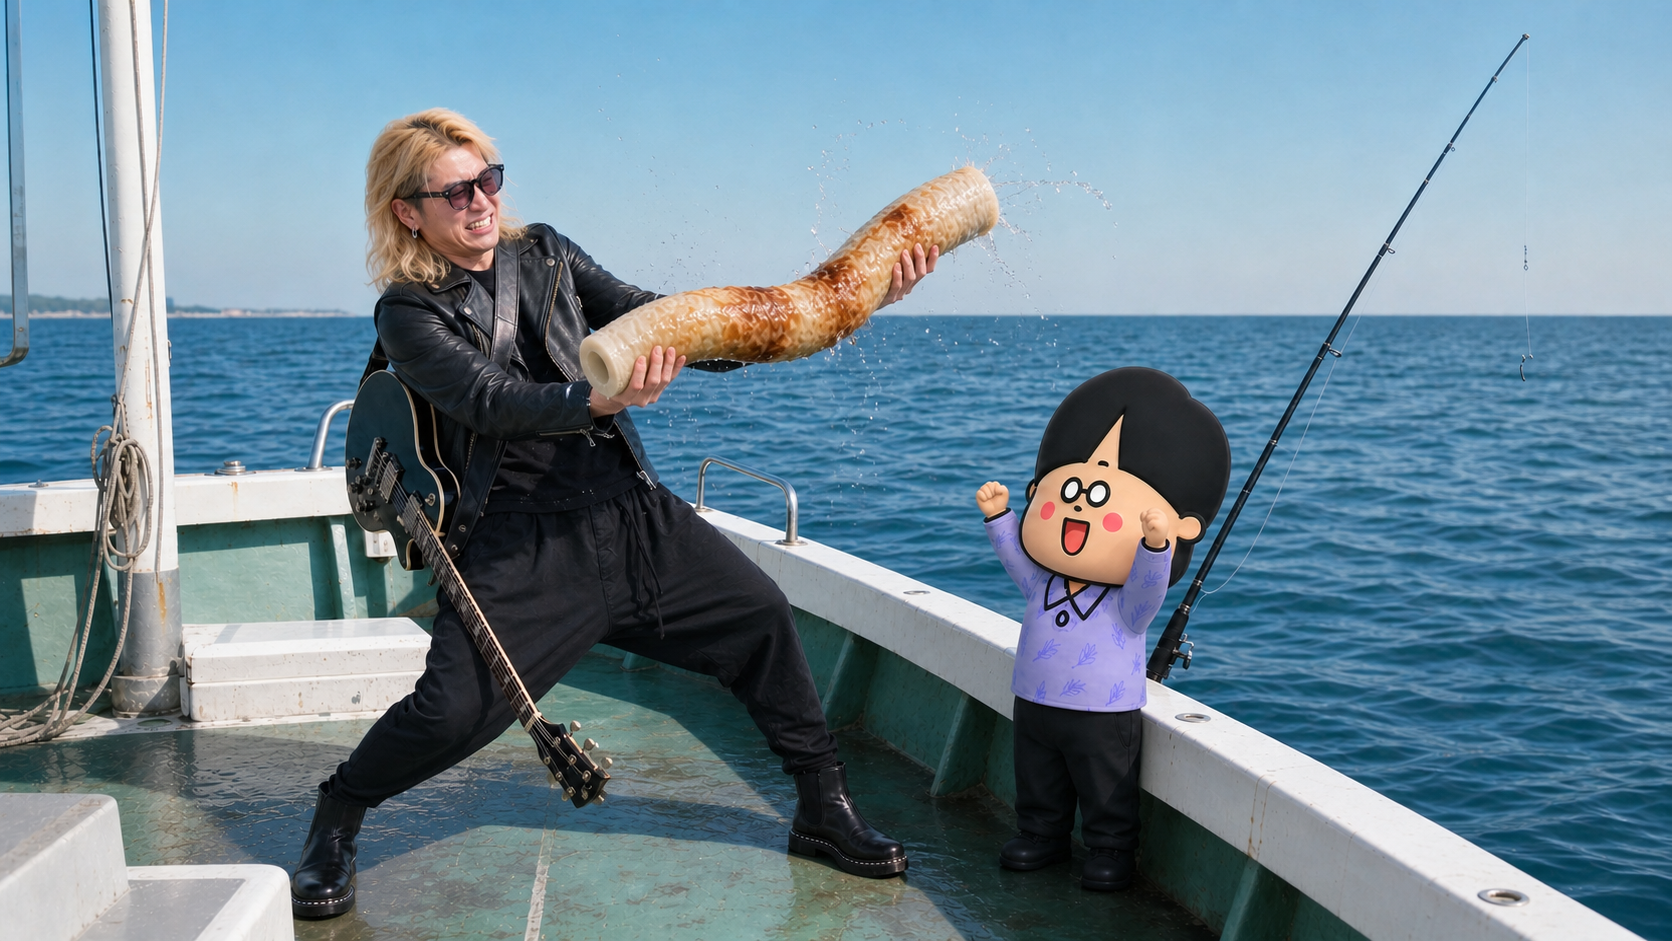
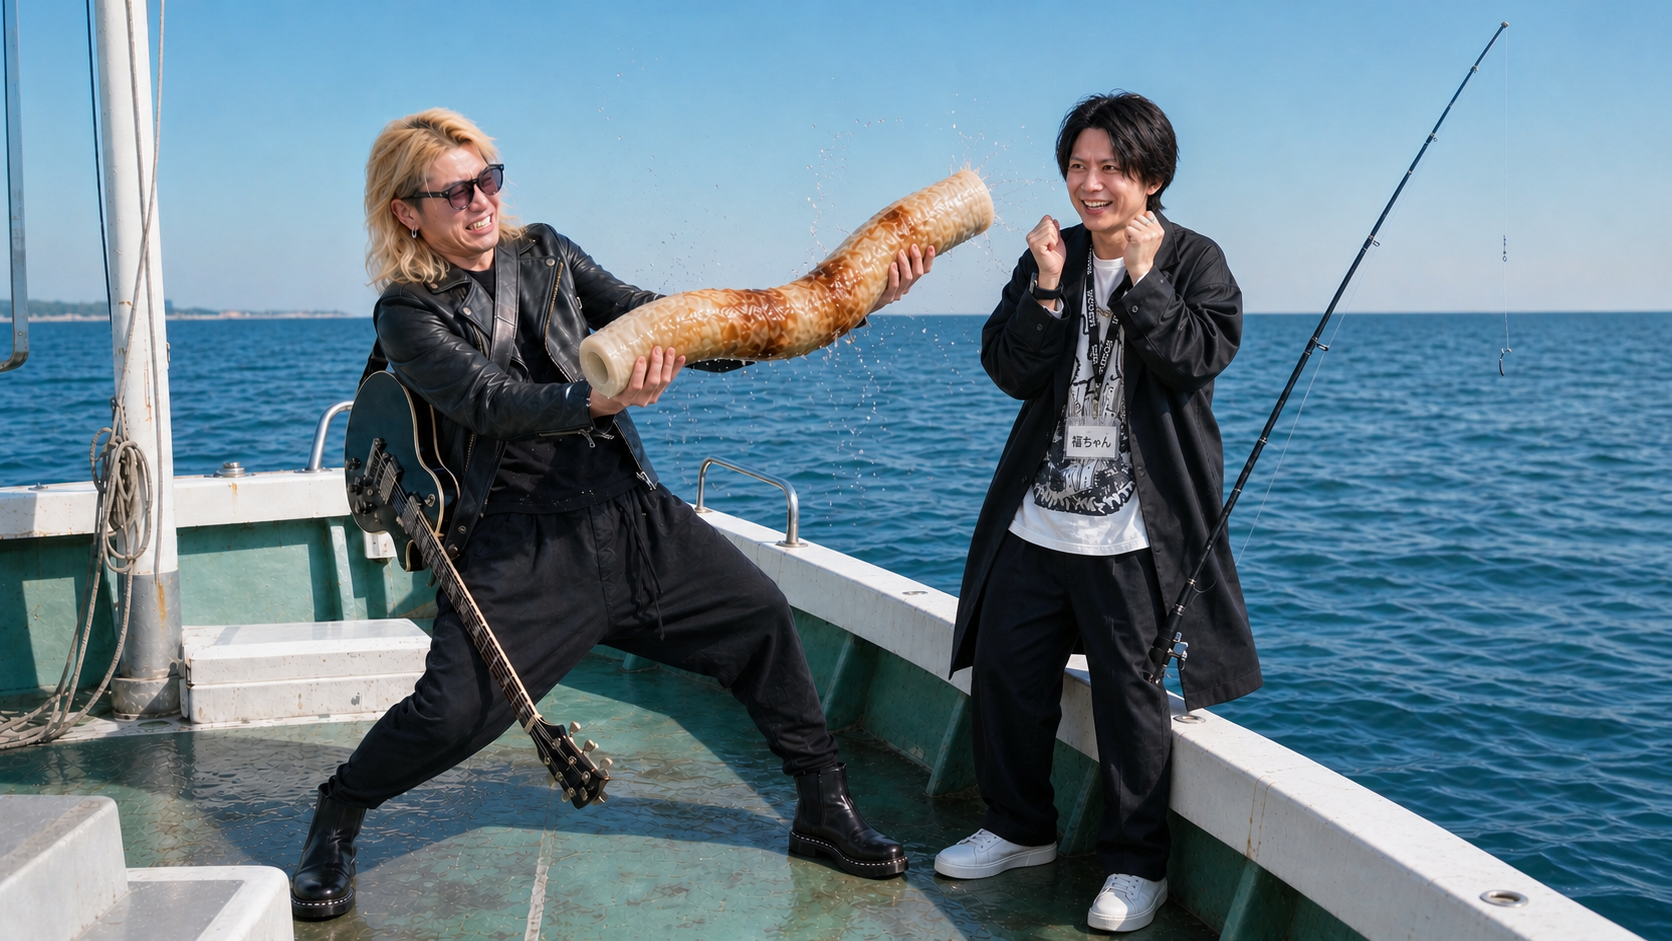
feat: replace Yametaro with live-action Fukuchan assets

diff --git a/03_SCRIPTS/42_chikuwa_line_fishing_soba_shark/asset_generation_prompts.md b/03_SCRIPTS/42_chikuwa_line_fishing_soba_shark/asset_generation_prompts.md
@@ -1,65 +1,69 @@
 # 本番参照画像・確認画像の生成記録
 
-新規画像はbuilt-in `image_gen`で生成し、採用画像だけをこのランへ保存した。そばシャークは過去の正本素材を変更せず、通常の人間サイズのまま複製した。
+新規・差し替え画像はbuilt-in `image_gen`で生成し、採用画像をこのランへ保存した。実写のよーたんと福ちゃんを含む3枚は、`02_CHARACTERS/Yotan.jpg`と`02_CHARACTERS/Fukuchan.jpg`をそれぞれの顔の唯一のidentity sourceとして使用した。
 
 ## 本番入力画像
 
 ### `scene_01_fishing_boat_start_production.png`
 
 ```text
-Use case: identity-preserve
-Asset type: final 16:9 Seedance production start frame for a live-action Japanese short comedy, exact frame zero.
-Input images: YOTAN face reference is the sole and absolute face identity source; YOTAN character sheet fixes his slim build, black leather rock outfit, sunglasses, boots, blond hair, and exactly one black electric guitar; YAMETARO references fix his canonical deformed 3D identity, huge rounded-square head, black side-parted hair, round glasses, pink cheeks, purple patterned shirt, black pants, tiny body and proportions.
-Primary request: On a small realistic Japanese coastal fishing boat at open sea in clear morning light, show exactly two Madogiwa members. YOTAN stands at the starboard rail in the left-center foreground, bracing both boots wide on the wet deck and straining backward while gripping one deeply bent fishing rod with both hands. The taut line exits frame into the sea at lower right. His black electric guitar is exactly one, secured diagonally on his back. YAMETARO stands one step behind and screen-right, leaning toward the rod with surprised anticipation, hands raised but not touching it. Both look toward the taut line and sea.
-Composition: cinematic photoreal 16:9 wide-medium shot from slightly above deck height, 35mm lens, camera on port side, readable faces and upper bodies, boat bow and starboard rail visible, horizon level in the upper third. Exact opening state, ready for motion after 0.2 seconds.
-Style: high-end practical live-action Japanese creature comedy, realistic boat, sea spray, wet fiberglass deck, natural skin and cloth, restrained color grade.
-Constraints: strict character identity; no beautification or realistic-human conversion of YAMETARO; no fish, chikuwa, dorsal fin, shark, Soba Shark, beer, other people, extra rods, extra guitars, text, logo, watermark, split panels or character-sheet layout.
+Use case: identity-preserve and precise-object-edit.
+Asset type: final 16:9 Seedance production start frame, exact frame zero, for a photoreal Japanese creature-comedy short.
+Input roles: the previous start frame fixes the exact small fishing boat, port-side camera, open sea, clear morning, YOTAN position, deeply bent rod and framing. Yotan.jpg is YOTAN's sole absolute face-identity source; his basic sheet fixes his slim body, blond hair, sunglasses, black leather rock outfit, boots and exactly one black electric guitar. Fukuchan.jpg is FUKUCHAN's sole absolute face-identity source; his basic sheet fixes his slim body, center-parted black hair, oversized black jacket, white graphic T-shirt, black wide trousers, white sneakers, SPONSOR lanyard and Fukuchan name badge.
+Primary edit: replace the stylized YAMETARO at screen-right with the real live-action FUKUCHAN. FUKUCHAN stands one step behind and screen-right of YOTAN, leaning toward the bent rod with natural surprised anticipation, one hand slightly raised, not touching YOTAN or the rod. Keep exactly two real Japanese men aboard.
+Identity: both faces strictly match their sole canonical photos in age, bone structure, eyes, brows, nose, mouth, skin and hair. No face mixing, beautification, rejuvenation or generic substitution.
+Photorealism: candid observational footage from a small crew aboard a working coastal boat. Preserve pores, faint wrinkles, natural skin variation, individual wind-blown hair, cloth weave and seams, gravity and wind in clothing, salt marks, scratches, chipped paint, wet scuffed FRP, grounded contact shadows and restrained cool morning sunlight. No plastic skin, wax faces, excessive HDR, oversharpening, airbrushing, studio glamour or theatrical posing.
+Invariants: preserve composition, lens, horizon, geography, YOTAN stance, rod geometry and taut line. Exactly one guitar on YOTAN. No catch visible yet.
+Avoid: YAMETARO, cartoon people, third person, fish, chikuwa, dorsal fin, shark, Soba Shark, beer, extra rods, extra guitars, text overlay, subtitles, logo, watermark or reference-sheet layout.
 ```
+
+採用結果：よーたんが画面左で曲がった竿を両手保持し、福ちゃんが一歩後ろで身を乗り出す実写二人画。福ちゃんのストラップと名札、船の擦れ・濡れ、自然な朝光を維持。
 
 ### `prop_large_living_chikuwa_production.png`
 
 ```text
-Use case: product-mockup
-Asset type: Seedance production master image for exactly one living ocean chikuwa used as the catch in a live-action Japanese creature comedy.
-Primary request: Create one natural chikuwa marine organism approximately 60 centimeters long and 12 centimeters in diameter. Preserve the familiar food form: one flexible hollow cylindrical tube, pale beige fish-paste body, irregular caramel-brown grilled bands and patches, and one clean continuous central hole visible through both ends. Its taut living tissue is coated in seawater with droplets and wet highlights. It can flex into shallow S-curves when alive, but has no face or appendages.
-Composition: entire object visible diagonally in three-quarter view, both outer cylinder and hollow center readable, generous padding, neutral medium-gray seamless production background. No fishing line or hook in the reference.
-Style: ultra-photoreal practical creature prop and food photography, realistic fish-paste pores, subtle flexible weight, wet marine sheen, neutral cinematic lighting.
-Constraints: exactly one 60cm chikuwa; no eyes, mouth, gills, fins, tail, legs, tentacles, scales, fur, bones, blood, damage, plate, packaging, people, boat, ocean, text, labels, arrows, panels, logo, watermark or signature. Do not turn it into an eel, fish, worm, rubber toy, bread, ceramic or plastic.
+Use case: product-mockup.
+Asset type: Seedance production master image for exactly one living ocean chikuwa.
+Primary request: one flexible natural chikuwa marine organism approximately 60cm long and 12cm in diameter, preserving the familiar single hollow food cylinder, pale beige fish-paste body, caramel-brown grilled marks and continuous central hole. Taut living tissue, seawater film and droplets, capable of shallow S-curves but with no face or appendages.
+Composition: entire object visible diagonally in three-quarter view on a neutral medium-gray seamless background.
+Constraints: exactly one chikuwa; no eyes, mouth, gills, fins, tail, legs, tentacles, blood, damage, people, boat, ocean, text, logo or watermark.
 ```
 
 ### `character_sobaya_sobashark_sheet.png`
 
 - コピー元：`03_SCRIPTS/35_soba_shark/character_sobaya_sobashark_sheet.png`
-- 変更：なし。過去素材の人物、白い仮面、粗末な灰色サメ着ぐるみ、銀色補修、縫い目、尾、黒ジーンズ、白スニーカーをそのまま正本にする。
-- 今回のスケール：通常の人間サイズ、全高約1.8m。巨大化させない。ラストは右舷外の水面から腰〜上半身だけを出す。
+- 変更：なし。白い仮面、粗末な灰色サメ着ぐるみ、銀色補修、縫い目、尾、黒ジーンズ、白スニーカーを正本とする。
+- 今回のスケール：通常の人間サイズ、全高約1.8m。巨大化せず、ラストは右舷外の水面から腰〜上半身だけを出す。
 
 ## イメージ確認用画像
 
-次の2枚はユーザーが構図とルックを確認するための`preview_`画像であり、Seedanceの入力画像、始終端、複数キーフレームへは登録しない。採用後にキーフレームとして使う場合だけ参照素材表を更新する。
+次の2枚は構図と実写ルックを確認するための`preview_`画像であり、Seedanceの入力画像、始終端、複数キーフレームへは登録しない。
 
 ### `preview_scene_02_large_chikuwa_celebration.png`
 
 ```text
-Use case: precise-object-edit and identity-preserve.
-Asset type: final cinematic 16:9 visual-approval still for the celebration beat on the same small Japanese fishing boat in clear morning light.
-References: preserve the exact boat geography and production look; YOTAN's canonical face, blond hair, sunglasses, slim black-leather rock outfit and exactly one black electric guitar; YAMETARO's canonical tiny deformed 3D design, huge rounded-square head, round glasses and purple patterned shirt; the wet beige grilled texture and hollow food shape of the living chikuwa.
-Primary request: YOTAN alone holds exactly one living chikuwa, approximately 60cm long and 12cm thick, horizontally at chest height. The chikuwa is actively thrashing, visibly bent into a pronounced S-curve, spraying droplets and twisting its ends in opposite directions. YOTAN is happy but clearly struggling: elbows at uneven heights, torso leaning back, grip being adjusted, tense shoulders and an awkward strained smile. He must not look calm or effortless. YAMETARO stands nearby cheering with both hands raised and never touches the chikuwa.
-Composition: same port-side 40–50mm medium-wide angle, YOTAN screen-left, YAMETARO screen-right, entire chikuwa visible and clearly much shorter than YOTAN's height. One rod rests safely against the starboard rail. Wet deck and morning sea remain continuous.
-Constraints: exactly two characters and one chikuwa; preserve both identities; chikuwa has no face, eyes, mouth, fins, tail or limbs; no shark, dorsal fin, Soba Shark, beer, extra people, extra rods, duplicate guitars, text, logo, subtitle, watermark, split screen, arrows or reference-sheet layout.
+Use case: identity-preserve and precise-object-edit.
+Asset type: final 16:9 visual-approval still for the celebration beat.
+Input roles: the previous celebration image fixes the boat, morning sea, YOTAN in his black leather rock outfit with one guitar, one thrashing 60cm chikuwa, rod placement and framing. Yotan.jpg and Fukuchan.jpg are the sole face-identity sources. FUKUCHAN's sheet fixes his black outfit, SPONSOR lanyard and name badge. The chikuwa master fixes its wet beige grilled texture and hollow food shape.
+Primary edit: replace the stylized YAMETARO with real FUKUCHAN. FUKUCHAN stands screen-right, never touches the chikuwa, smiles naturally and performs the signature GYUN-GYUN pose with both hands close to his cheeks. YOTAN alone holds exactly one 60cm by 12cm living chikuwa at chest height.
+Action: the chikuwa actively flexes into an irregular S-curve and sprays droplets. YOTAN struggles with uneven elbows, tense shoulders, adjusted grip, rearward weight and a happy but strained expression.
+Identity: strictly preserve each canonical face, age and hair. No face mixing, beautification, rejuvenation or generic substitution.
+Photorealism: candid observational boat footage with pores, faint wrinkles, natural skin variation, wind-blown hair, cloth weave, wet fabric, real droplets, scratched salt-marked FRP, contact shadows and restrained morning light. No glossy ad, plastic skin, wax faces, excessive HDR, oversharpening or airbrushing.
+Avoid: YAMETARO, cartoon person, FUKUCHAN touching the chikuwa, extra people, shark, dorsal fin, Soba Shark, beer, extra chikuwa, extra rod, extra guitar, text, logo, watermark or reference-sheet layout.
 ```
 
-採用結果：大ちくわは約60cmで浅いS字にしなり、水滴を撒きながら暴れている。よーたんだけが抱え、左右の肘と体幹をずらして苦戦し、やめ太郎は触れずに喜ぶ構図。
+採用結果：よーたんだけがS字に暴れる大ちくわを抱えて苦戦し、実写の福ちゃんは触れずに頬の近くでギュンギュンポーズを取る。
 
 ### `preview_scene_03_soba_shark_beer_surface.png`
 
 ```text
-Use case: precise-object-edit and identity-preserve.
-Asset type: final cinematic 16:9 visual-approval still for the closing gag on the same small Japanese fishing boat.
-References: preserve the boat, morning sea, YOTAN and YAMETARO continuity; preserve SOBA SHARK exactly as the canonical normal human-sized masked man in a shabby gray fabric shark costume; preserve the one 60cm living chikuwa's wet beige grilled texture and hollow food shape.
-Primary request: At screen-right outside the starboard rail, normal human-sized SOBA SHARK has surfaced vertically with only his waist and upper body above the water. He is not giant and does not jump. His white mask, felt teeth, crooked dorsal fin, gray arms, seams and silver repair patch are readable. With his right hand he is already tilting exactly one large clear glass mug full of amber beer and white foam to the narrow mouth of his mask and drinking. His left hand is empty.
-On deck, YOTAN stands startled with both hands empty after dropping the catch. Exactly one approximately 60cm living chikuwa lies on the wet deck and is still actively flopping: its flexible body bends into a strong S-curve, one end lifted 10–15cm, with fresh droplets and a small splash showing a deck impact. YAMETARO raises his hands in surprise and looks between SOBA SHARK and the flopping chikuwa.
-Composition: stable 35mm three-subject shot—YOTAN screen-left, flopping chikuwa lower center, YAMETARO center-right, SOBA SHARK outside the rail at screen-right. Keep every subject readable; do not let spray hide the mask, mug or chikuwa.
-Constraints: exactly normal human scale; exactly one full beer mug in the right hand; YOTAN holds no chikuwa; no jump, airborne pose, giant creature, actual shark, handoff or visible source for the mug, empty mug, bottle, can, extra people, extra chikuwa, collision, injury, text, logo, subtitle, watermark, split screen or arrows.
+Use case: identity-preserve and precise-object-edit.
+Asset type: final 16:9 visual-approval still for the closing gag.
+Input roles: the previous closing image fixes the boat, morning sea, YOTAN with empty hands, one 60cm living chikuwa flopping on deck and normal human-sized SOBA SHARK outside the rail drinking one beer mug. Yotan.jpg and Fukuchan.jpg are the sole face-identity sources. FUKUCHAN's sheet fixes his black outfit, SPONSOR lanyard and name badge. The Soba Shark sheet is the sole costume-design source.
+Primary edit: replace stylized YAMETARO with real FUKUCHAN. FUKUCHAN stands center-right, hands raised close to his cheeks as a startled GYUN-GYUN variation, looking between SOBA SHARK and the chikuwa without touching anything.
+Preserve action: YOTAN remains screen-left with empty hands. Exactly one 60cm chikuwa remains lower center, flopping in a strong irregular S-curve with one end 10–15cm above the wet deck and a fresh impact splash. Normal-sized SOBA SHARK remains waist-up outside the starboard rail, tilting exactly one full glass beer mug to the mouth of his mask; left hand empty; no jump.
+Identity and realism: strict canonical faces and age. Preserve natural pores, wrinkles, hair, fabric weave, soaked costume seams, real glass refraction, beer foam, water droplets, salt-marked FRP and restrained morning light. No beautification, plastic skin, wax faces, excessive HDR or studio pose.
+Avoid: YAMETARO, cartoon person, FUKUCHAN touching the chikuwa, giant creature, jump, actual shark, empty or extra mug, handoff, extra people, extra chikuwa, collision, injury, text, logo, watermark or reference-sheet layout.
 ```
 
-採用結果：通常サイズのそばシャークが右舷外で上半身を出して満杯ジョッキを飲み、よーたんの両手は空。大ちくわはデッキ上でS字に曲がり、水滴を飛ばして跳ね続ける構図。
+採用結果：通常サイズのそばシャークが右舷外で飲酒し、よーたんの両手は空。実写の福ちゃんは頬の近くへ両手を上げ、デッキ上の大ちくわはS字に跳ね続ける。
